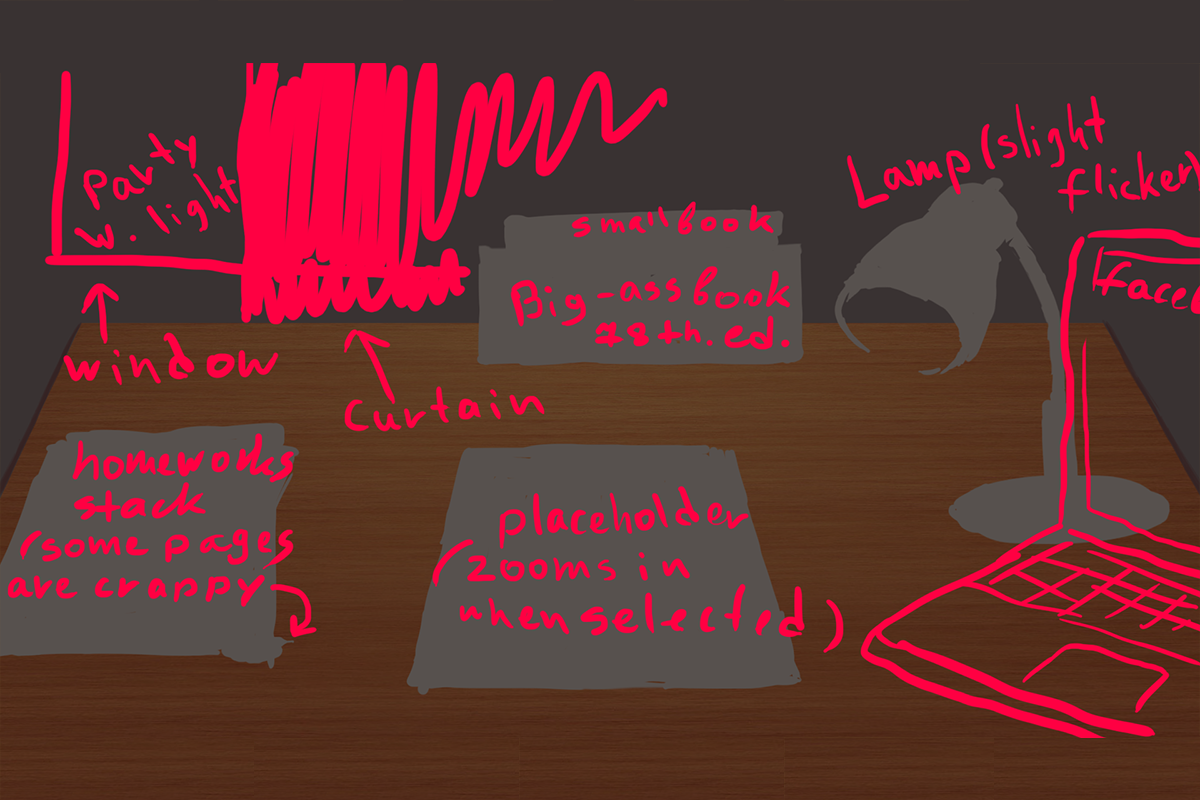
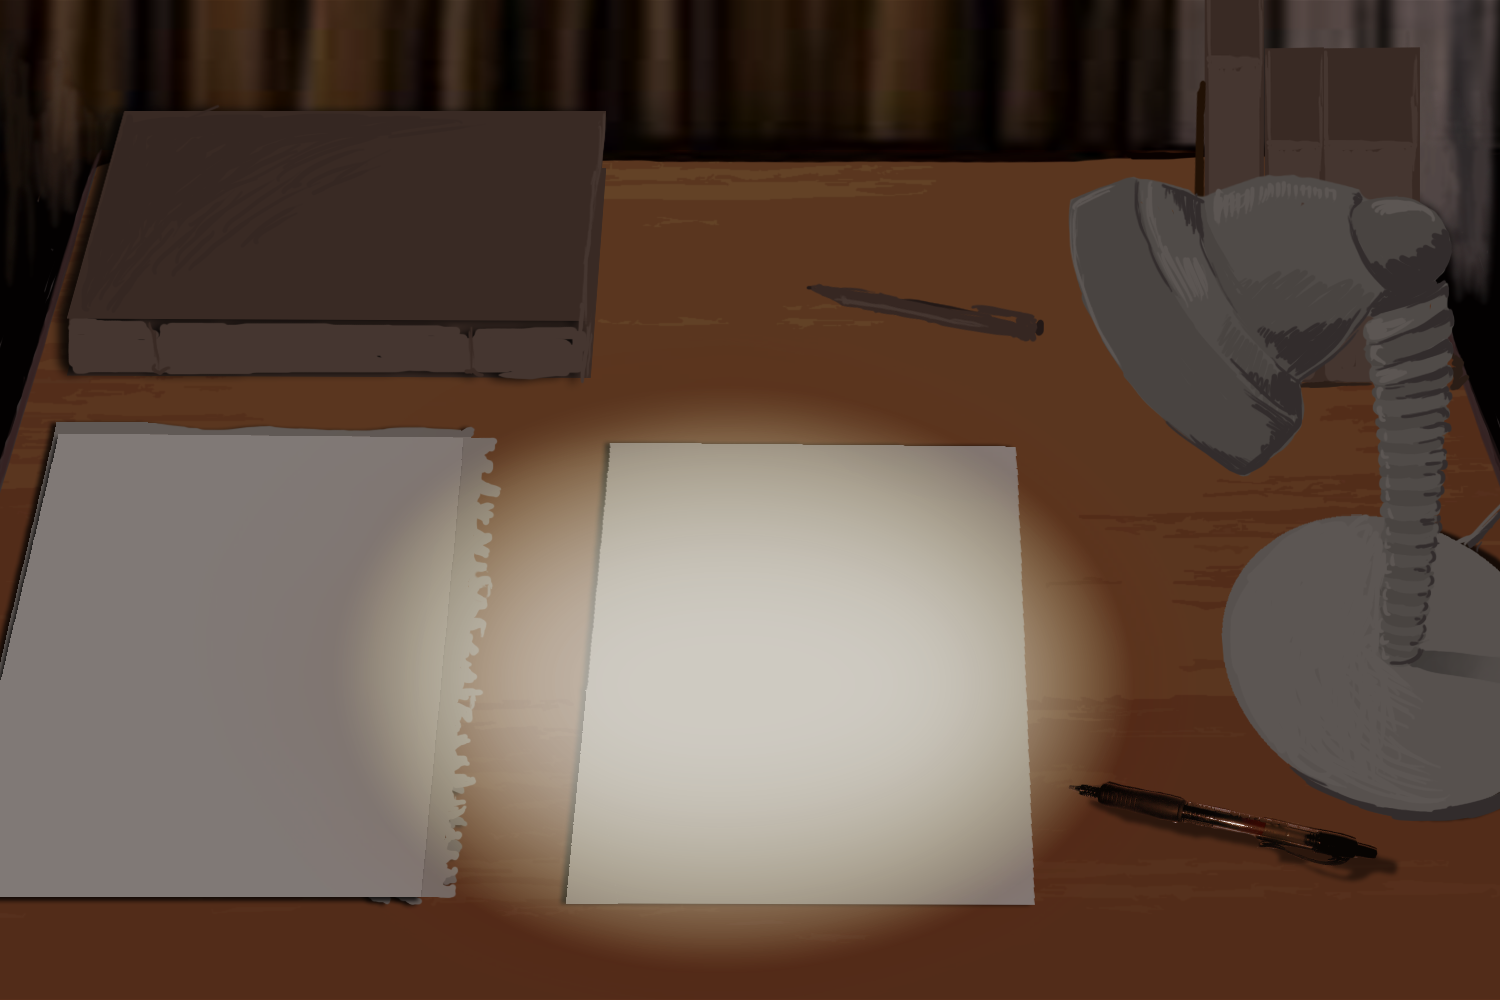
Added new art, and updated mouse to track with position changes.

diff --git a/tbfyoyl/tbfyoyl/tbfyoyl/TAGame/TAGame.cs b/tbfyoyl/tbfyoyl/tbfyoyl/TAGame/TAGame.cs
@@ -34,6 +34,9 @@ namespace tbfyoyl.TAGame
         //how accurately we've been grading
         private Score currentScore;
 
+        private Camera2d zoomedOut;
+        private Camera2d zoomedIn;
+
         public TAGame(MainGame game)
             : base(game) { }
 
@@ -43,15 +46,22 @@ namespace tbfyoyl.TAGame
         /// </summary>
         public override void Initialize()
         {
+            /*
+            zoomedOut = new Camera2d();
+            zoomedOut.Zoom = 0.5f;
+            zoomedOut.Pos = new Vector2(750, 500);
 
-            MediaManager.cam = new Camera2d();
-            MediaManager.cam.Move(new Vector2(600, 400));
+            zoomedIn = new Camera2d();
+            zoomedIn.Zoom = 0.8f;
+            zoomedIn.Pos = new Vector2(750, 500);
+            MediaManager.cam = zoomedOut;
+            */
 
             currentScore = new Score();
 
-            answerKey = new Paper(MediaManager.textures["paper"], new Vector2(800, 450), MediaManager.allAnswers[0]);
-            graded = new PaperStack(MediaManager.textures["paper stack"], new Vector2(400, 450));
-            ungraded = new PaperStack(MediaManager.textures["paper stack"], new Vector2(0, 400));
+            answerKey = new Paper(MediaManager.textures["paper"], new Vector2(1000, 450), MediaManager.allAnswers[0]);
+            graded = new PaperStack(MediaManager.textures["paper"], new Vector2(500, 450));
+            ungraded = new PaperStack(MediaManager.textures["ungraded stack"], new Vector2(0, 450));
 
             pen = new GradingStamp(MediaManager.textures["pen_incorrect"], new Vector2(800, 500));
             cheater = new GradingStamp(MediaManager.textures["pen_cheater"], new Vector2(800, 550));
@@ -131,15 +141,11 @@ namespace tbfyoyl.TAGame
                         activeObject = null;
 
                         //zoom in
-                        MediaManager.cam = new Camera2d();
-                        MediaManager.cam.Pos = new Vector2(800, 550);
-                        MediaManager.cam.Zoom = 1.4f;
-
+                        MediaManager.cam = zoomedIn;
                     }
                     else
                     {
-                        MediaManager.cam = new Camera2d();
-                        MediaManager.cam.Move(new Vector2(600, 400));
+                        MediaManager.cam = zoomedOut;
                         if (ungraded.Contains(pos))
                         {
                             //destroy old paper
@@ -174,14 +180,12 @@ namespace tbfyoyl.TAGame
                 }
                 else
                 {
-                    MediaManager.cam = new Camera2d();
-                    MediaManager.cam.Move(new Vector2(600, 400));
+                    MediaManager.cam = zoomedOut;
                 }
             }
             else
             {
-                MediaManager.cam = new Camera2d();
-                MediaManager.cam.Move(new Vector2(600, 400));
+                MediaManager.cam = zoomedOut;
             }
             bool ret = base.ClickUp(pos);
             return ret;
@@ -189,8 +193,13 @@ namespace tbfyoyl.TAGame
 
         public override void Draw(SpriteBatch spriteBatch)
         {
-            MediaManager.DrawArt(spriteBatch, "Content/background", 0, 0);
+            MediaManager.DrawArt(spriteBatch, "Content/table_clear", 0, 0);
+            MediaManager.DrawArt(spriteBatch, "Content/books_pen", 0, 0);
+            MediaManager.DrawArt(spriteBatch, "Content/lamp", 400, -200);
+            MediaManager.DrawArt(spriteBatch, "Content/implied_partay", 0, 0);
+            MediaManager.DrawArt(spriteBatch, "Content/math", 0, 0);
             base.Draw(spriteBatch);
+            MediaManager.DrawArt(spriteBatch, "Content/lamp_light", 0, 0);
         }
     }
 }

diff --git a/tbfyoyl/tbfyoyl/tbfyoyl/MediaManager.cs b/tbfyoyl/tbfyoyl/tbfyoyl/MediaManager.cs
@@ -48,12 +48,14 @@ namespace tbfyoyl
 
         public static Camera2d cam;
 
+        public static GraphicsDevice gd;
+
         //*************************************************************************
         public static void Setup(IServiceProvider Services, GraphicsDeviceManager g, bool advancedFlag = false)
         {
 
             content = new ContentManager(Services);
-            
+            gd = g.GraphicsDevice;
             textures = new Dictionary<string, Texture2D>();
             
             // UI'S ASSETS
@@ -63,17 +65,17 @@ namespace tbfyoyl
             textures.Add("MENU_BOTTOM", content.Load<Texture2D>("content/UI_Bottom_150p"));
             
             // TA GAME'S ASSETS
-            textures.Add("paper", content.Load<Texture2D>("content/Paper"));
+            textures.Add("paper", content.Load<Texture2D>("content/main_paper"));
             textures.Add("answer", content.Load<Texture2D>("content/BLAH"));
-            textures.Add("pen_incorrect", content.Load<Texture2D>("content/pen_incorrect"));
+            textures.Add("pen_incorrect", content.Load<Texture2D>("content/main_pen"));
             textures.Add("pen_cheater", content.Load<Texture2D>("content/pen_cheater"));
             Texture2D empty = new Texture2D(g.GraphicsDevice, 400, 250);
             Color[] empty_color = new Color[400 * 250];
             for (int i = 0; i < 400 * 250; i++)
                 empty_color[i] = Color.Transparent;
             empty.SetData(empty_color);
-            textures.Add("paper stack", empty);
-            //textures.Add("paper stack", content.Load<Texture2D>("content/PaperStack"));
+            textures.Add("graded stack", empty);
+            textures.Add("ungraded stack", content.Load<Texture2D>("content/hw_stack"));
 
             // BOOKSTORE GAME'S ASSETS
             textures.Add("books", content.Load<Texture2D>("content/books"));
@@ -121,6 +123,18 @@ namespace tbfyoyl
         }
 
         //*************************************************************************
+
+        public static Vector2 GetMousePos(MouseState state)
+        {
+            return Vector2.Transform(new Vector2(state.X, state.Y),
+                   Matrix.Invert(MediaManager.cam.get_transformation(gd)));
+        }
+
+        public static Vector2 GetCurMousePos()
+        {
+            return GetMousePos(Mouse.GetState());
+        }
+
         public static Texture2D GetArt(string artFileName)
         {
             Texture2D retVal;

diff --git a/tbfyoyl/tbfyoyl/tbfyoyl/MainGame.cs b/tbfyoyl/tbfyoyl/tbfyoyl/MainGame.cs
@@ -94,7 +94,7 @@ namespace tbfyoyl
                 {"SPLASHSCREEN", new SplashScreen(this)},
             };
             ActiveGame = "SPLASHSCREEN";
-
+            
             foreach (Minigame game in games.Values)
             {
                 game.Initialize();
@@ -132,8 +132,8 @@ namespace tbfyoyl
 
             MouseState curMouseState = Mouse.GetState();
 
-            Vector2 curPos = new Vector2(curMouseState.X, curMouseState.Y);
-            Vector2 prevPos = new Vector2(prevMouseState.X, prevMouseState.Y);
+            Vector2 curPos = MediaManager.GetMousePos(curMouseState);
+            Vector2 prevPos = MediaManager.GetMousePos(prevMouseState);
             games["UI"].MouseOver(curPos);
             activeGame.MouseOver(curPos);
 
@@ -142,6 +142,7 @@ namespace tbfyoyl
                 if (games["UI"].ClickDown(curPos))
                 {
                     activeGame.ClickDown(curPos);
+                    System.Diagnostics.Debug.Write("going\n");
                 }
                 startClickState = curMouseState;
             }

diff --git a/tbfyoyl/tbfyoyl/tbfyoyl/UI/UI.cs b/tbfyoyl/tbfyoyl/tbfyoyl/UI/UI.cs
@@ -101,7 +101,7 @@ namespace tbfyoyl
 
         public override void Draw(SpriteBatch spriteBatch)
         {
-            MouseState ms = Mouse.GetState();
+            Vector2 mousePos = MediaManager.GetCurMousePos();
             
             if (game.ActiveGame == "TAGAME" || game.ActiveGame == "BOOKSTOREGAME")
             {
@@ -277,7 +277,7 @@ namespace tbfyoyl
                  */
             }
                  
-            MediaManager.DrawArt(spriteBatch, "Content/cursorSmall30", (int)ms.X - 30 / 2, (int)ms.Y - 30 / 2);
+            MediaManager.DrawArt(spriteBatch, "Content/cursorSmall30", (int)mousePos.X - 30 / 2, (int)mousePos.Y - 30 / 2);
         }
 
     }
